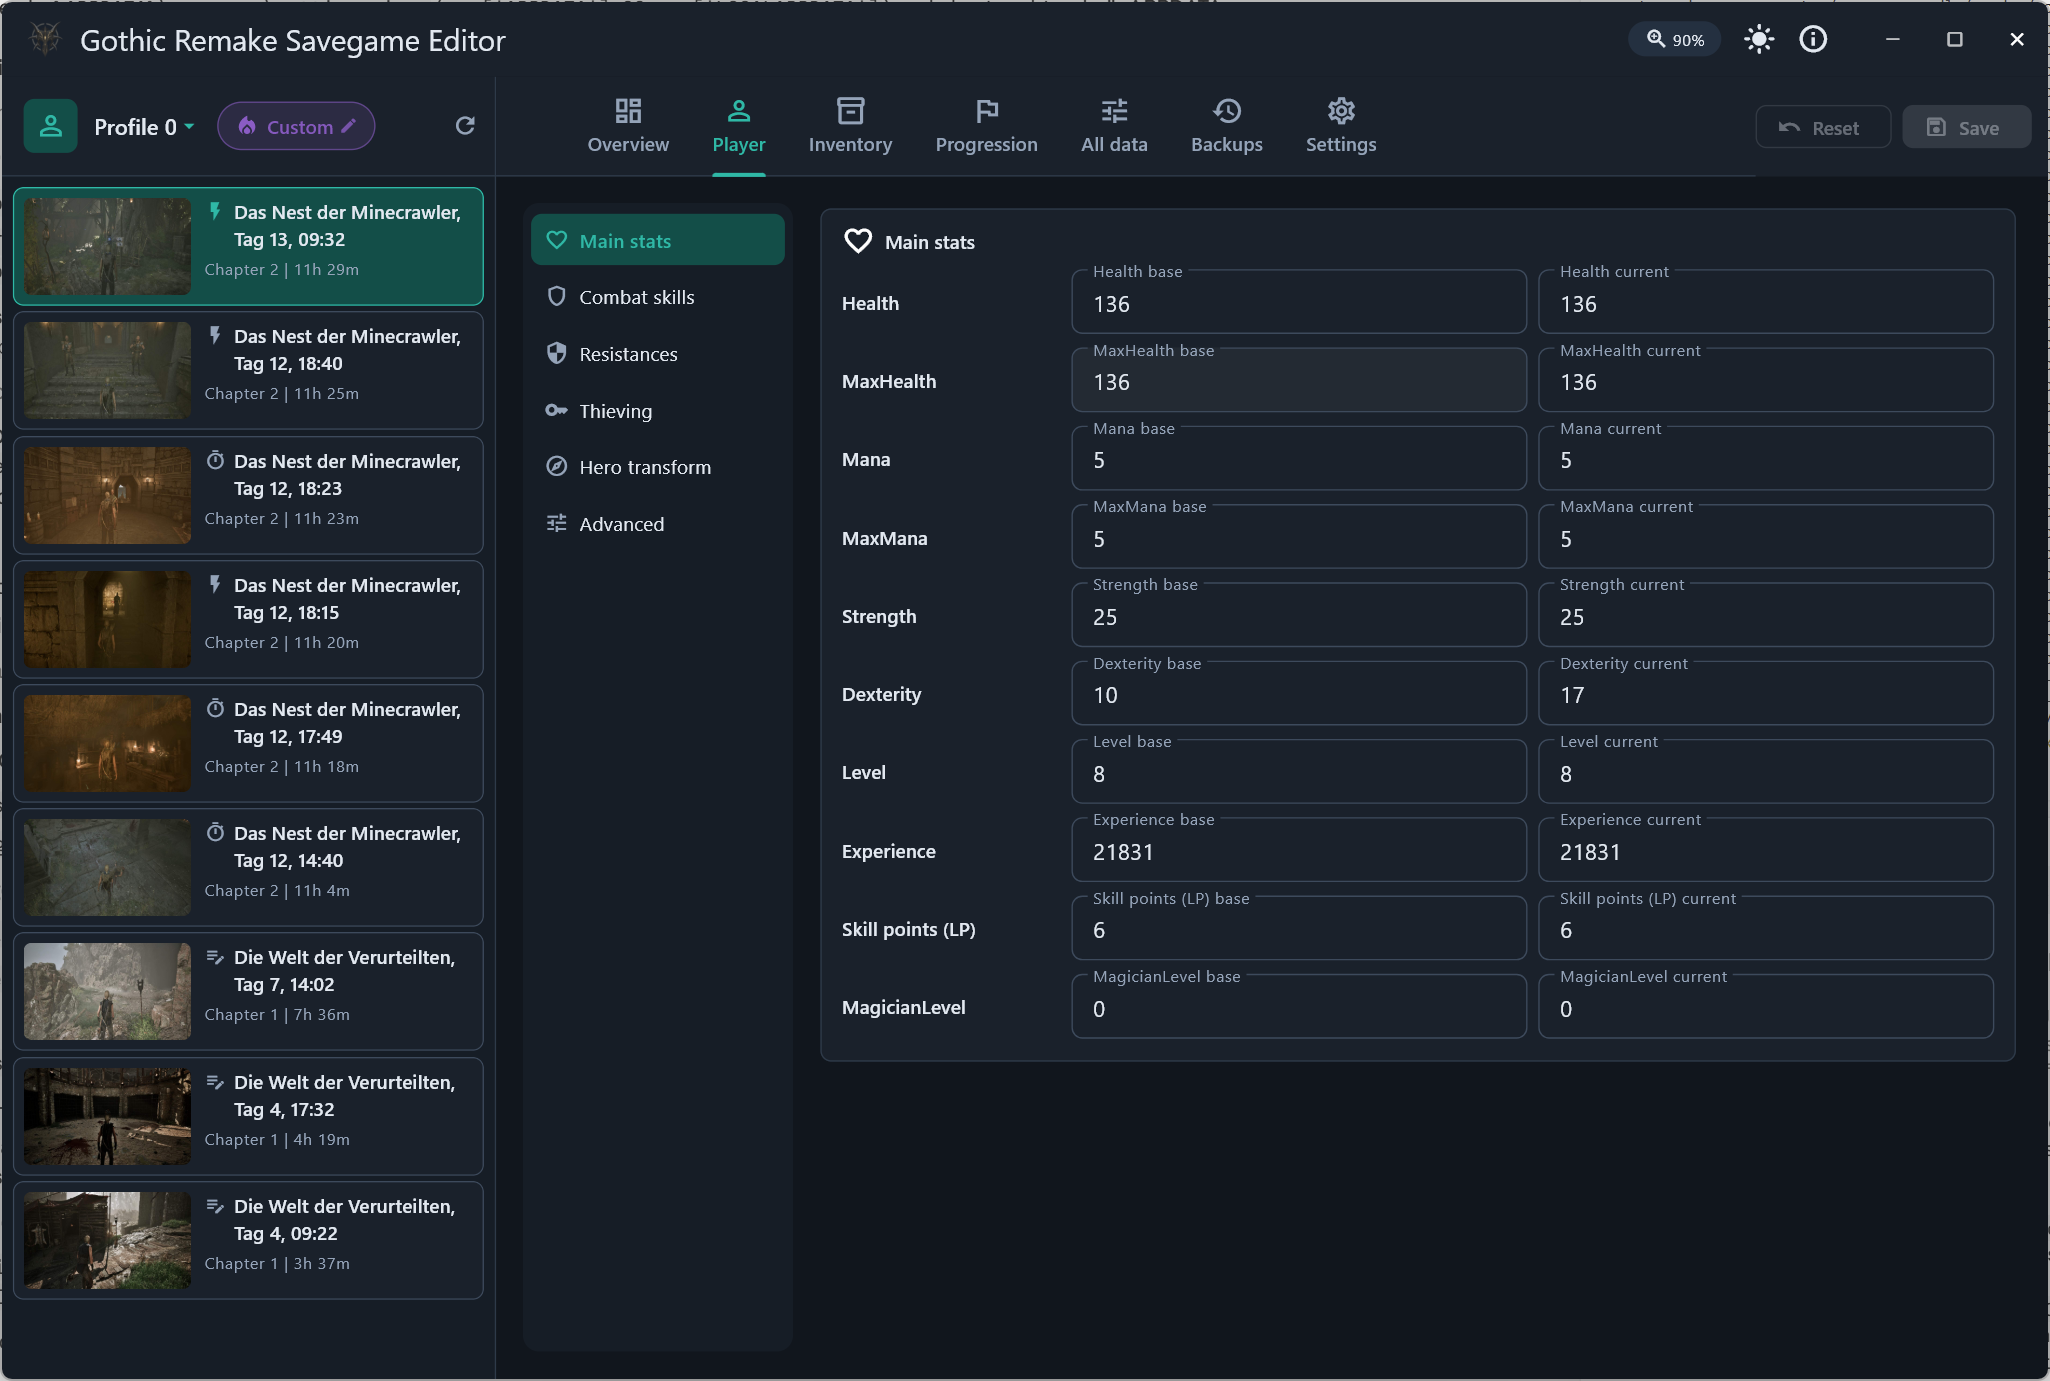
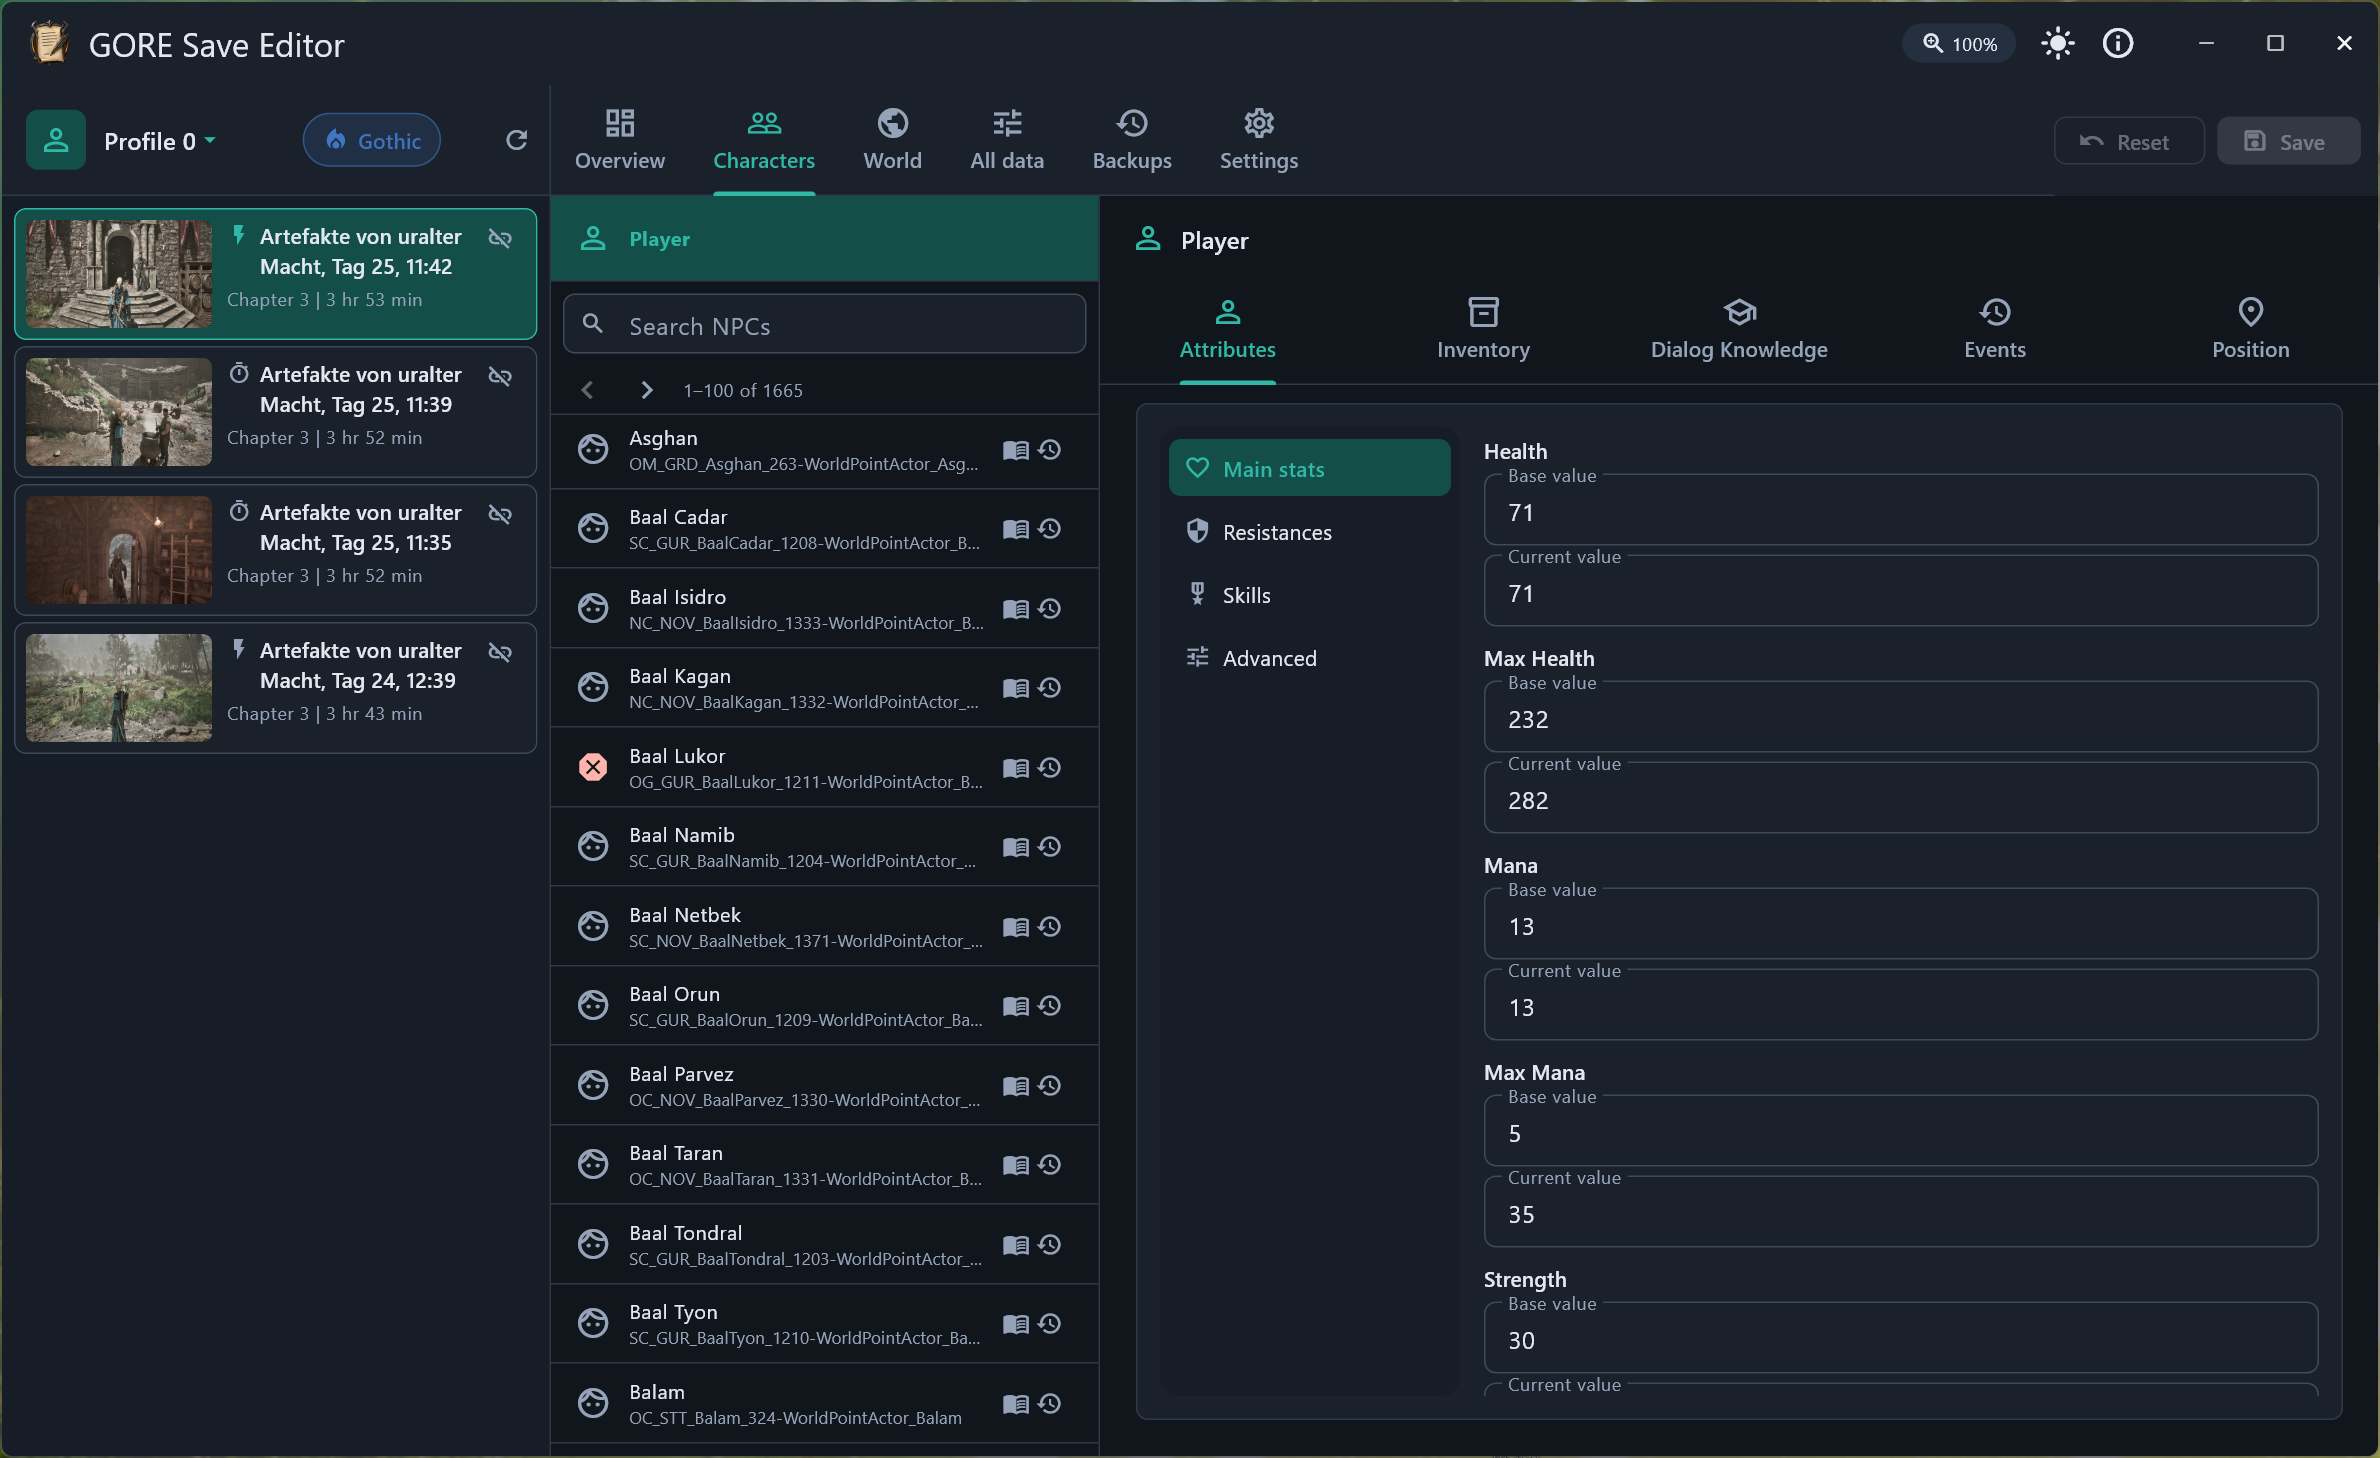
update readme

diff --git a/README.md b/README.md
@@ -2,13 +2,13 @@
 
 **GORE** (Go-thic Re-make) is a vibe-coded modding and save-editing toolsuite for Gothic 1 Remake. One Rust engine, one CLI, and three Windows apps built on top of it.
 
-[<img src="docs/images/screenshot_light.png" alt="GORE Save Editor" width="600"/>](docs/images/screenshot_light.png)
+[<img src="docs/images/screenshot_dark.png" alt="GORE Save Editor" width="600"/>](docs/images/screenshot_light.png)
 
 ## Tools
 
 | Tool | What it does | Status |
 |---|---|---|
-| **[`gore` CLI](docs/guide/README.md)** (`gore.exe`) | All modding from the terminal: item values, text and dialogs, audio, voice, textures, DataAssets, scripts. Start here. | ⚗ Experimental use |
+| **[GORE CLI](docs/guide/README.md)** | All modding from the terminal: item values, text and dialogs, audio, voice, textures, DataAssets, scripts. Start here. | ⚗ Experimental use |
 | **[Mod Studio](apps/mod-studio/README.md)** | No-code Windows GUI over the same engine, for *authoring* one mod. | 🚧 Work in progress |
 | **[Mod Manager](apps/mod-manager/README.md)** | Windows GUI for installing and ordering *many* mods together. | 🚧 Work in progress |
 | **[Save Editor](apps/save-editor/README.md)** | Windows GUI for editing your save files. Never touches the game install. | ✅ Ready to use |
@@ -52,7 +52,9 @@ gore gen overrides.toml -o "$GAME\G1R\Binaries\Win64\ue4ss\Mods"
 
 Full walkthrough: [Getting started](docs/guide/getting-started.md).
 
-## Modding from an AI assistant
+## Vibe Modding
+
+You can mod with AI agents by installing the plugin, or by manually installing the skill and mcp tools.
 
 ### Claude plugin
 
@@ -68,7 +70,7 @@ codex plugin marketplace add C:\path\to\gore
 codex plugin add gore@gore
 ```
 
-### Manual installation (all agents)
+### Manual installation (all clients)
 
 Add the MCP server to the client configuration:
 
